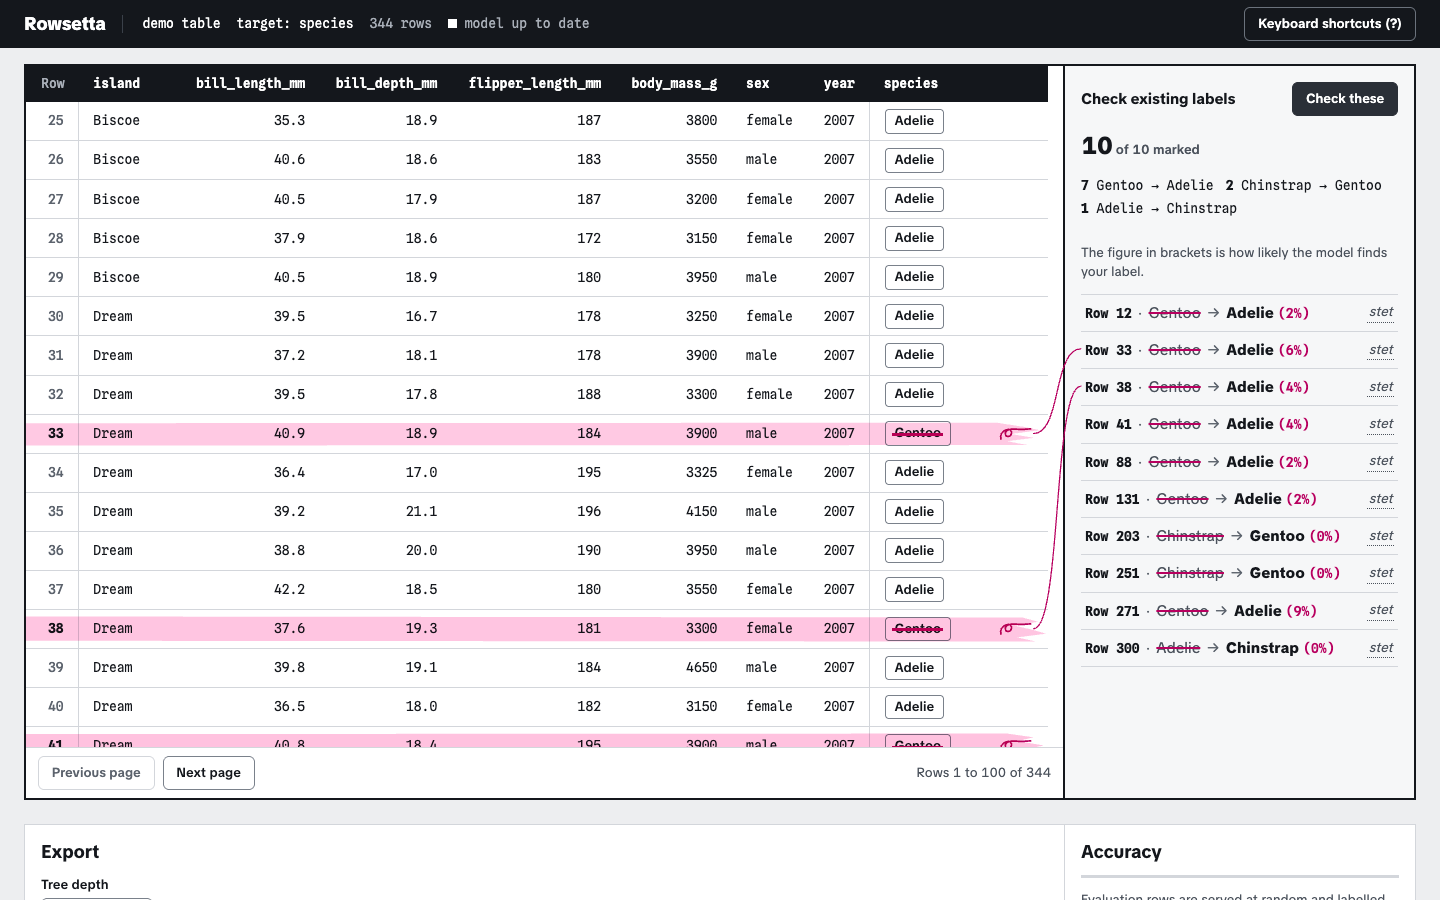
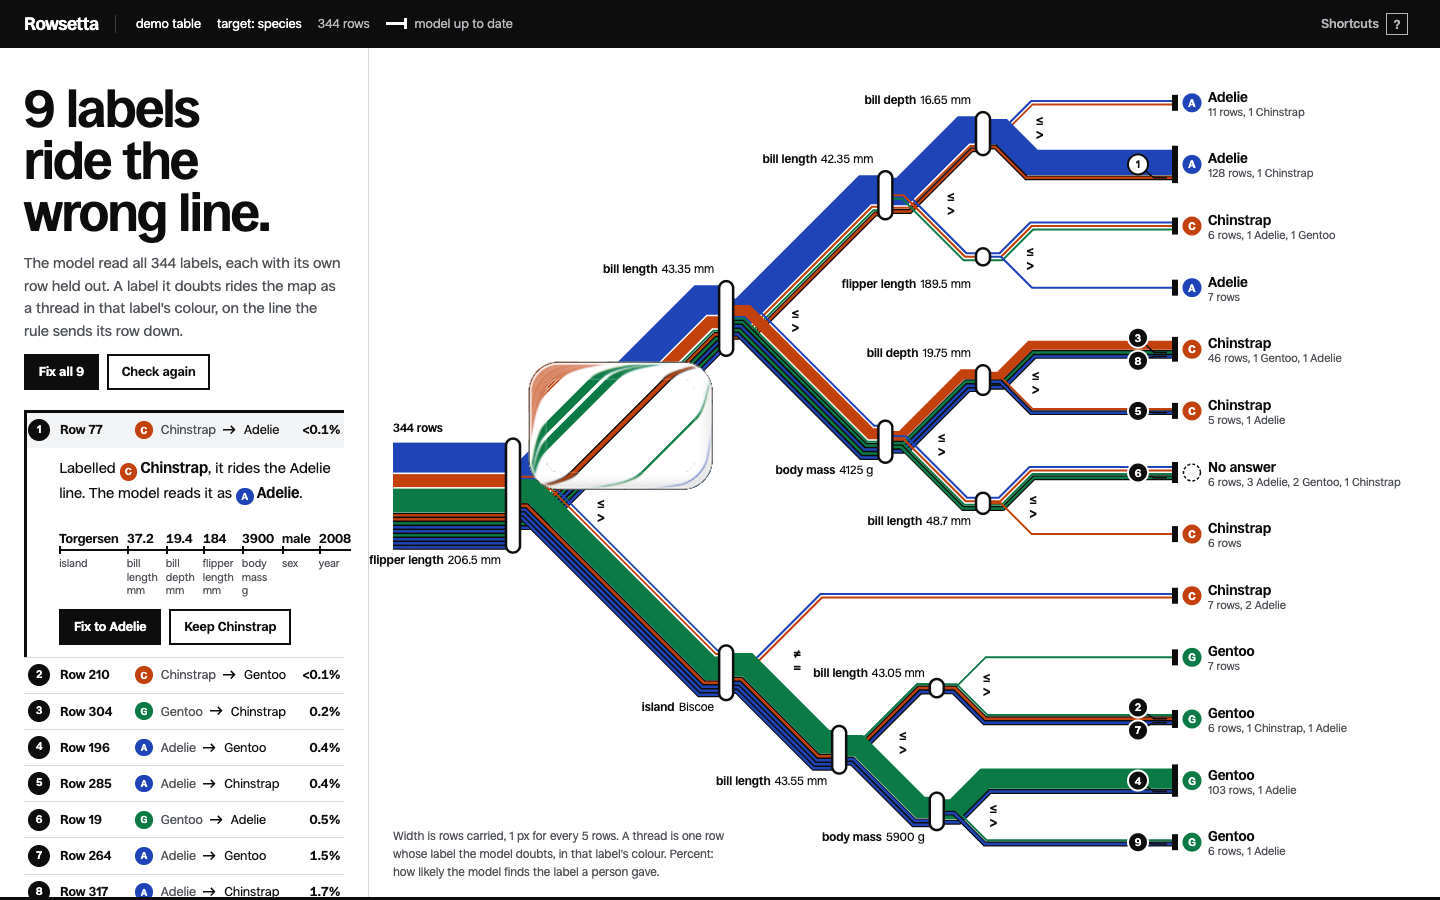
Document the interchange direction and refresh the hero and social preview

diff --git a/DESIGN.md b/DESIGN.md
@@ -1,108 +1,255 @@
 # Design direction
 
 Rowsetta is a tool for people who have a table and need its labels to be right.
-The look comes from that: a proofreader's marked-up sheet. Rows are ruled
-lines, labels are stamps, and the one loud colour is the highlighter that goes
-over a row when something needs a second look.
+It learns a rule from the labels, and the rule is a decision tree: rows enter at
+one end, split at each test, and arrive at an answer. That is a transit network,
+so the page draws it as one. The learned rule and the label audit are the same
+picture.
 
-## Audience action
+## Steals
 
-An analyst opens a CSV, labels a few rows, and keeps a rule. Before that, they
-need to trust the labels they already have. The first thing the interface
-proves is that it can find the wrong ones.
+- **Massimo Vignelli, New York subway diagram (1972).** Track at 0 and 45
+  degrees only, interchanges as white capsules, one colour per line, a black
+  terminus bar with the line's roundel and name, Helvetica-like type set flat
+  on white. The diagram is a diagram, not a street map: lengths are not
+  distances, and nothing is shaded.
+- **Charles Joseph Minard, flow maps (1869).** A band's width is the number of
+  rows it carries, so the trunk and each branch say how much of the table took
+  that turn.
+- **Liquid glass loupe.** A thick glass tile with a curved bevel, after the
+  liquid glass grid Filip Kantedal described for Codrops (September 2026). Here
+  it is one lens, not a grid, and only the lens is glass.
 
-## Signature moment: the marker pass
+## Signature moment: the glass over the map
 
-Press "Check these". The audit runs, and then the table is read the way a
-proofreader reads a page. In rank order, the table scrolls to each suspect row
-that is on the page and one marker stroke is dragged across it from the left.
-Its edge is ragged, and each later stroke is thinner and paler, as the marker
-runs dry. A strike is drawn through the class word, a proofreader's delete loop
-is written in the right-hand margin of the row, and a slip writes itself into
-the margin beside the table, joined to the row by a leader line. The count in
-the margin goes up by one with each row.
+When a table and target are open, the first viewport is the rule drawn as a
+line map. The root is the origin on the left, labelled with the row count; each
+test is an interchange; each leaf is a terminus on the right, named by the class
+it answers with its row counts beside it. Each band is split into parallel lines
+by the label the rows carry, in that label's line colour, proposals paler than
+a person's labels.
 
-The margin is part of the sheet, not a card list. Slips are in table order, so
-leaders never cross. Clicking a slip scrolls its row to the middle and outlines
-both in ink; clicking a row's mark scrolls its slip into view. "stet" on a slip
-lets that label stand: the stroke fades, the strike goes, and the delete loop
-becomes the word stet.
+The label audit runs as soon as ten rows are labelled. A row whose label the
+model doubts rides the map as a thin thread in its given label's colour, cased
+in ink, on the line the rule sends it down, with its rank in a roundel at the
+terminus. A Chinstrap thread on the Adelie line is visible at a glance. The
+notice column says how many labels ride the wrong line and lists them in rank
+order.
 
-It is interruptible: any wheel, key or pointer input ends the tour and marks
-the remaining rows at once. Strokes, strikes and slips run on transform,
-opacity and clip-path. The one exception is the delete loop, which is an SVG
-stroke-dashoffset on a 36 px path. Under reduced motion the finished state
-appears at once.
+A glass lens sits over the map, and it shows what the flat map cannot. It is a
+plain loupe: one even enlargement across its middle, so the middle is a
+magnified piece of the map, where rows sit 2.4 px apart (12 times for the
+penguins table, between 3 and 12 for any table). A band parts into one line
+per row only where the glass sets its rows at least 1.5 px apart; otherwise it
+stays one flat colour, and no line is drawn under 1 px. The selected doubted
+row lifts off its line in ink casing, and the glass shows the nearest point of
+that thread at its middle, so the row in question is always the one read. The
+glass holds no type at all: the row's values are set in its entry in the
+notice column. Drag it, or tab to the map and use the arrow keys.
 
-## Three choices
+The glass rests with the doubted thread through its middle, and never on a
+station. When a row is picked the glass rides its thread from the origin and
+rests mid-route on the thread at the first point where it covers no capsule,
+no terminus, not the origin's count and not the key, and, if it can, no type
+either (`restAlong` in `frontend/src/transit.ts`). Where only type is in the
+way, the type moves, not the glass: a station's name, or its two signs
+together, step just clear of the glass, up or down, whichever is shorter, and
+step back when it moves on. Only when no point on the thread passes does the
+glass slide off it (`restNear`). The glass is 184 by 128 px, sized so every
+doubted row in the demo has such a point. During Fix all the glass lifts off
+between drops (90 ms) and sets down at the next rest, so on no frame of the
+ride does it cross type. All map type carries a 4 px white knockout, and steps
+back by colour rather than opacity, so no thread strikes through it.
 
-1. **Ground: cold neutral white.** Page `#edeef0`, sheets `#ffffff`, ink
-   `#14171c`. Hairlines and a solid ink rule on top of each panel do the
-   structure; there are no shadows and no gradients.
-2. **One accent: highlighter pink.** `#ff2e93` as a fill and bar, `#ffd0e6` as
-   a wash behind text, `#b8005f` for pink text. Pink marks a doubt and
-   nothing else: the stroke, the strike, the loop, the leader and the figure in
-   a slip. Selection is an ink outline. Errors are ink.
-3. **Type: TikTok Sans and Spline Sans Mono, both SIL OFL, self-hosted.** The
-   sans carries headings, chips and the accuracy figure at weight 800; the
-   mono carries every cell, row number, column header and rule condition, with
-   tabular figures.
+The middle is the live vector map, scaled. Around it a WebGL shader draws an
+18 px bevel of clear glass from the same enlarged picture of the map, painted
+on a canvas in the same frame. Toward the rim the bevel reads the map farther
+and farther out, up to 2.6 bevel widths (as the steepening face of a thick
+edge does), so every band that reaches the edge bends into it and crowds
+together there, with red, green and blue a pixel apart. The face toward the
+top-left light brightens, the opposite face darkens, a bright specular line
+runs just inside the rim, strongest toward the light, a faint seam marks
+where the flat middle begins, and a hairline ink edge closes it
+(`frontend/src/lens.ts`). Without WebGL, and until the shader is ready, a flat
+window with an ink ring stands in. While dragged, the glass stretches along
+its motion and springs back.
 
-## Label states are shapes, then colour
+The notice column carries every reading, so nothing covers the map. At an
+interchange it says how many rows meet there and which way they go, in words:
+"Rows with bill length up to 43.35 mm go up, the rest go down." At a terminus
+it gives the line's counts and its first rows. A doubted row opens in place in
+the list with one sentence, "Labelled Chinstrap, it rides the Adelie line. The
+model reads it as Adelie.", each label with its line roundel, then the row's
+values as stops on one ruled line, a tick at each, the value above and its
+column's name below, and Fix and Keep.
 
-| State | Chip |
-| --- | --- |
-| Human label | hairline outline, ink text |
-| Proposed | no outline, grey text |
-| Unsure | dashed grey outline |
-| Unlabelled | no outline, dotted underline |
+## Second moment: the re-route
 
-Pink never marks a state; it marks a doubt. Unflagged labels stay light so
-only flagged rows carry weight.
+Press Fix and the glass moves onto the thread first. The rest of the map steps
+back to a fifth of its strength, and the moving thread is drawn 6 px wide in
+ink casing. The new label's colour runs along the thread from the origin to its
+terminus at an even speed, edged in white so it reads over a band of the same
+colour (900 ms). Then, inside the glass, the lifted thread slides across the
+band's hairlines into its new colour group (760 ms), the glass following the
+thread as it goes, and the map comes back. The terminus it reaches, left in
+plain view, ticks its count over once. If the fix changes the rule's shape, the old map lifts (220 ms) and the
+new rule is laid from the origin rightward (1100 ms). Fix all is one ride
+through the doubts in rank order. The first three drops take about 0.8 s each,
+so the first is believed; the rest follow 250 ms apart. The drops run on the
+page; the labels go to the server one by one behind them, and the map holds
+the rule it had until the server has refitted on every new label and the new
+rule is in. Until then the headline counts the drops as they land, "9 fixed.
+Refitting…", and Finish now goes once the last drop is down. While the map steps
+back, each terminus taking a row stays in full ink and its count flashes its
+line's colour as it changes, and the notice column stays on the list. Esc, or
+the button, now "Finish now", lands the rest at once. When the ride ends, and
+again once the refitted map lands, the glass settles on the nearest stretch of
+track that passes the same test (`clearSpot`), else on the nearest white with
+no track under it (`openSpot`). When the refitted rule lands, each old
+terminus whose rows now mostly reach a line that a larger old terminus also
+reaches was retired. It stays as a dashed bar where it stood, and the notice
+column lists it struck through, "Chinstrap, 5 rows merges into Chinstrap, 51
+rows", from the old and new rules. Two seconds after the new map is laid, the
+bars fold into their lines one after another and a count over the list runs
+down with each, 13 to 9. The headline then reports the change, for example
+"9 fixed, 4 fewer termini."
+
+## Tokens
+
+- **Ground:** white `#ffffff` sheet, `#f3f4f5` for a quiet fill, ink `#0d0d0d`,
+  greys `#4f5257` and `#5d6066` for what is said second, hairline `#d6d8db`,
+  control edge `#7a7d83`.
+- **Lines:** `#1f44b8`, `#c2410c`, `#0b7a45`, `#7b2d8e`, `#6b4f2a`, `#b0124f`,
+  `#0f6e80`, `#4a4f57`, one per class in the server's class order, in
+  `frontend/src/palette.ts`. Rows with no label ride `#b4b7bc`. Each carries a
+  white roundel letter at 4.5:1 or more and stands at 3:1 or more on white.
+- **Structure:** a 3 px ink rule over each panel, square corners, 2 px ink
+  borders on buttons and fields, no gradients. A choice among a few values is a
+  strip of square ink tabs sharing their edges, the chosen one solid, in place
+  of a select. Paging is a pair of words on a rule. Key caps are square and
+  ink-edged. Nothing casts a shadow.
+
+## Type
+
+Ronzino (Collletttivo, SIL OFL) at 400, 500 and 700 for everything on the page,
+including the map; Spline Sans Mono (SIL OFL) only for exported code. Headline
+`clamp(2.25rem, 1.6rem + 1.9vw, 3.25rem)` at 700, tight tracking. Ronzino has no
+arrow glyph, so the arrow in "Chinstrap to Adelie" is a drawn SVG with the word
+"to" kept for screen readers.
+
+## Motion
+
+Moves use `cubic-bezier(0.77, 0, 0.175, 1)`; arrivals use
+`cubic-bezier(0.23, 1, 0.32, 1)`. The lens rides a doubted row's route in 1300
+ms when its row is picked from the list or the table. Hover and focus changes
+take 160 ms. Nothing loops. The lens redraws only when it moves or the map
+changes; its wobble stops when it settles or the tab is hidden. Three.js loads
+after first paint, in its own chunk. Device pixel ratio is capped at 2, and at 1
+under 640 px wide.
+
+Under `prefers-reduced-motion`, the map and lens appear finished, the lens does
+not stretch, and Fix changes the label at once. Without WebGL the lens is an ink
+ring around the same hairline view, so every reading still works.
 
 ## Layout
 
-An ink app bar names what is open: the file, the target column, the row count
-and whether the model is up to date. Below it, the sheet is the table and its
-margin side by side. The table fixes one precision per column, so decimals
-align, and sizes columns to their content. A label shows only its class: a
-hairline outline says a person gave it, plain italic says the model proposed
-it, a dashed outline says unsure, a dash says nothing yet. The words
-"Labelled" and "Proposed" stay in the page for screen readers.
+An ink app bar names the file, target and row count, and shows the model's
+state as a short run of track ending at a terminus bar: solid when current,
+broken while it refits. The
+keyboard sheet opens from a quiet "Shortcuts" link with a `?` key cap,
+the cap alone on a phone. Below it, the notice column (23rem) and
+the map share one viewport, with Fix all and Check again directly under the
+lede so they sit in the first viewport at 1440 by 900. The key to widths and
+threads sits in the map's empty lower left, left-aligned to the origin. Below
+that: the table, then export and the rule's lines on the left, with accuracy
+and the file and target form on the right, then the leak list. Each of the
+rule's lines is a vertical strip map in its line colour: a stop per test, then
+the terminus bar and the answer's roundel, so each line of SQL matches a
+terminus on the map. The file input is the map's origin: an ink dot and its
+first stretch of track beside "Choose or drop a CSV file", with the native
+input kept for keyboards and screen readers but not shown.
 
-Rule lines read as intervals, `flipper_length ≤ 206.5 · 40.75 < bill_length ≤ 42.35`,
-with the unit suffix dropped; the exported SQL keeps every test exactly.
+On the map, type stays off the track, and every station follows one rule. The
+test is named once, ending just before the capsule, over or under the track
+coming in. The two branch signs stand together in the fork, the upper
+branch's over the lower's, centred in the gap between the two bands where the
+bands have cleared them or levelled off: `≤` and `>` for a number, `≠` and `=`
+for a category, and no words. A strict cut is moved one step of the column's
+precision so the sign set stays the same (`bill length < 48.8` reads
+`≤ 48.7 mm`; `splitOf`). Each placement is checked
+against all the track, the capsules, the origin's count and the type already
+set (`labelChoices` and `layoutMap` in `frontend/src/transit.ts`), and the map
+is drawn narrower until every station's type ends before the roundel column.
+Termini take two lines: the answer, then the counts. The branch signs are set
+at 14 px, the names at 12. Rank roundels stand in
+their own column 24 px before the terminus bar, stacked about the terminus so
+they touch neither each other nor the bar, each joined to its thread by a
+short ink leader. Rows the audit doubts
+but that have too few values to place are listed under the doubts, not drawn,
+so the headline and the list count the same rows.
 
-Below the sheet: export and rule, accuracy, the file and target form, and the
-leak list. Under 62rem everything is one column: target, table, margin, then
-the rest. The table scrolls inside its own region with the row number and the
-label column fixed, and rows stop under the header rather than half-cut.
+Under 40rem the headline leads, with a still overview of the whole map under
+it: laid out at desk size without type and scaled to the column, with no glass.
+Its termini and rank roundels keep their desk size, initials and numbers at
+11 px, the ranks side by side before their terminus. An opened row's values sit
+16 px in from its rule.
+Each doubted row then carries its own strip map, as in a train car: its
+label's line, a stop per test, the terminus bar and the roundel of the line it
+reaches (a dashed ring for no answer, as on the map). Below the map, the
+columns to take a target from are stops on one vertical line, the picked one
+filled, and the new-target fields are rules to write on.
+
+The table keeps the existing label states, told by shape before colour: a
+person's label has a solid dot in its line colour, a proposal a ring and
+italic, unsure a dashed ring, and no label a short grey stretch of track. A
+doubted row shows its rank roundel and a "reads Likely" button that sends the
+lens to it.
+
+## Where every number comes from
+
+- The demo table: `uv run python scripts/mislabel_demo.py OUT.csv` writes the
+  Palmer penguins table with nine species labels changed (rows 19, 77, 196,
+  210, 231, 264, 285, 304 and 317, seed 7). Open it with
+  `uv run tabular-studio open OUT.csv` and pick `species`.
+- Doubted labels, their ranks and percentages: the server's label audit
+  (`GET /suspects`, `src/tabular_studio/core/audit.py`), each label scored by
+  the pinned TabICL model with its own row held out.
+- Interchanges, termini, their tests and row counts: the distilled rule
+  (`POST /distill`, `src/tabular_studio/core/distill.py`), depth 4 by default,
+  at most 16 leaves.
+- Band widths and the "1 px for every N rows" caption: `layoutMap` in
+  `frontend/src/transit.ts`, from those counts.
 
 ## Siblings
 
 Siblings: Forecastle (pale blue stock with green and ochre inks, Barlow
 Condensed and Source Sans 3), Promcast (near-black ground with chartreuse),
 Scrub (navy and pale blue with a red accent, Newsreader and Public Sans),
-Pocket Wind Tunnel (Archivo and JetBrains Mono). Shared with each at most one
-of ground family (light and cool, shared with Forecastle and Scrub only),
-accent family (pink, shared with none) and type pairing (shared with none).
-No signature device is shared. Not used anywhere: IBM Plex, Fraunces, Inter,
-warm paper, near-black grounds, amber or ochre.
+Pocket Wind Tunnel (Archivo and JetBrains Mono). Rowsetta shares at most one of
+ground family (light and cool), accent family (none: it has a set of line
+colours rather than one accent) and type pairing (none). The transit diagram
+and the glass loupe are used by no sibling.
 
 ## What must not change
 
-- State is told by shape and text before colour.
-- Pink appears only where something deserves a second look.
+- Track runs at 0 and 45 degrees only, and a band's width is its row count.
+- The map stays flat vector; only the lens is glass.
+- Every number on the map is also in text: the notice column, the rule's
+  lines under Export and the table. The canvas holds no text of its own.
+- A label's state is told by shape and text before colour.
 - Text and control edges meet WCAG 2.2 AA; `frontend/tests/tokens.contrast.test.ts`
-  checks every pair in `frontend/src/styles/tokens.css`.
+  checks every token pair and every line colour.
 - Focus is a 2 px ink outline with a 2 px offset.
 - No spinners: a thin line runs for waiting, and stops under reduced motion.
 
 ## States covered
 
 Connecting (a running line), no table (the open-a-file panel alone), an error
-(an ink-bordered banner with its next step), refit in progress (a line and the
-count in the table, and "model updating" in the app bar), a table with no
-target, no accuracy figure yet, long labels and long names (ellipsis with the
-full text in a title), and many columns. In the dev server, `/?state=empty`,
-`error`, `refit` and `loading` show the ones the demo server cannot hold still.
+(an ink-bordered banner with its next step), refit in progress (the map waits
+for the refit and says so, and "model updating" in the app bar), a table with
+no target, fewer than ten labels (the map says to label a few rows), a rule with no
+doubts, every doubt fixed or kept, a doubted row with most values missing
+(listed with its count of missing values, not drawn as a thread), long labels
+and long names (ellipsis with the full text in a title), and many columns. In
+the dev server, `/?state=empty`, `error`, `refit` and `loading` show the ones
+the demo server cannot hold still.

diff --git a/README.md b/README.md
@@ -6,11 +6,11 @@ Label a few rows of a CSV, let a local model propose the rest, check it on
 random rows and export the result as a decision tree in SQL, dbt, Python or
 JSON.
 
-![The label audit mid-review: a marker stroke, a strike and a delete mark on each suspect row, and a slip in the margin joined to it](docs/hero.png)
+![The learned rule drawn as a line map, with mislabelled rows riding the wrong line as threads and a glass lens reading a row labelled Chinstrap on the Adelie line](docs/hero.png)
 
 The screenshot is the Palmer penguins demo (`datasets/penguins.csv`) with nine
-species labels changed on purpose, then checked with the label audit and the
-pinned TabICL model.
+species labels changed on purpose by `scripts/mislabel_demo.py`, then checked
+with the label audit and the pinned TabICL model.
 
 ## Develop
 
